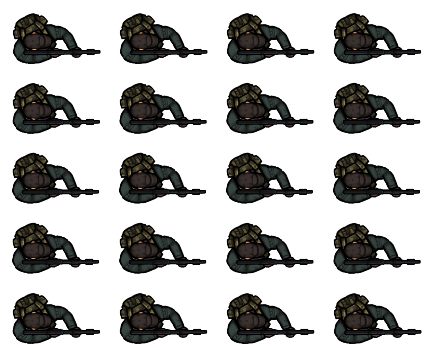
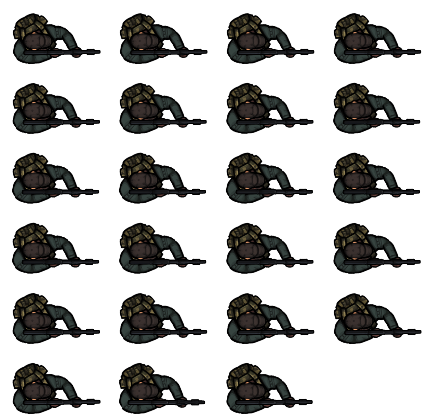
add player shoot sprite

diff --git a/js/shooter.js b/js/shooter.js
@@ -197,15 +197,17 @@ Survive = function (index, game, player) {
     // this.localZombie.setAll('checkWorldBounds', true);
     
     this.currentSpeed =0;
-    this.fireRate = 100;
+    this.fireRate = 300;
     this.nextFire = 0;
     this.alive = true;
-
+    // this.attack = this.turret.animations.add('attack',[0,1,2,3,4,5,6,7,8],15,false);
+    // this.walk = this.turret.animations.add('walk',[9,10,11,12,13,14,15,16,17,18,19,20,21,22,23,24,25],15,true);
     //this.shadow = game.add.sprite(x, y, 'shadow');
     this.gameObj = game.add.sprite(x, y, 'shadow');
     this.turret = game.add.sprite(x, y, 'player');
     this.grave = game.add.sprite(x, y, 'grave');
-    this.breath = this.turret.animations.add('breath');
+    this.breath = this.turret.animations.add('breath',[0,1,2,3,4,5,6,7,8,9,10,11,12,13,14,15,16,17,18,19],true);
+    this.attack = this.turret.animations.add('attack',[20,21,22],false);
     this.turret.animations.play('breath',5,true);
 
     //this.shadow.anchor.set(0.5);
@@ -327,8 +329,12 @@ Survive.prototype.fire = function(target) {
             this.nextFire = this.game.time.now + this.fireRate;
             var bullet = this.bullets.getFirstDead();
             bullet.reset(this.turret.x, this.turret.y);
-
-			bullet.rotation = this.game.physics.arcade.moveToObject(bullet, target, 500);
+            bullet.rotation = this.game.physics.arcade.moveToObject(bullet, target, 500);
+            
+            this.turret.animations.play('attack', 15, false);
+            this.turret.events.onAnimationComplete.add(function(){
+            this.breath.play();
+    }, this);
         }
 }
 Survive.prototype.kill = function() {
@@ -345,7 +351,7 @@ function preload () {
  
     game.load.image('shadow', 'assets/shadow.png');
     game.load.image('logo', 'assets/logo.png');
-    game.load.spritesheet('player', 'assets/player.png',107,70,19);
+    game.load.spritesheet('player', 'assets/player.png',107,70,23);
     game.load.spritesheet('zombie', 'assets/zombie.png',90,97,26);
     game.load.image('grave', 'assets/grave.png',50,50);
     // game.load.image('zombie1', 'assets/zombie1.png',71,71);
